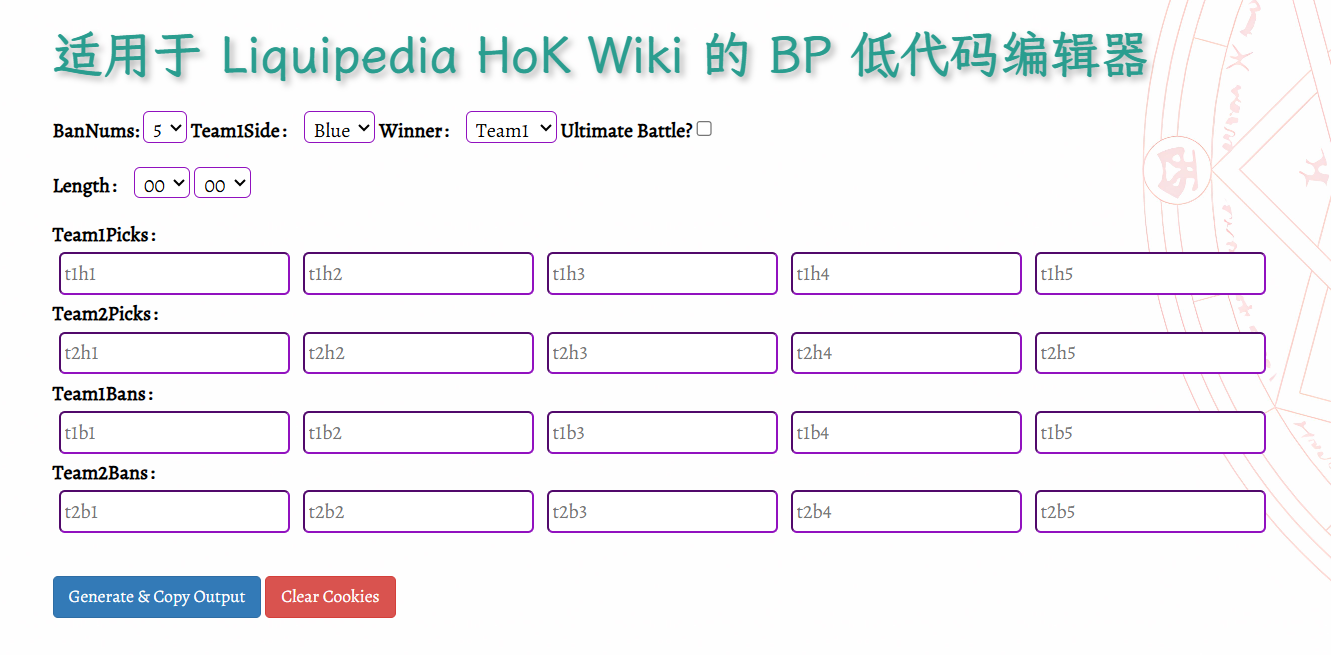
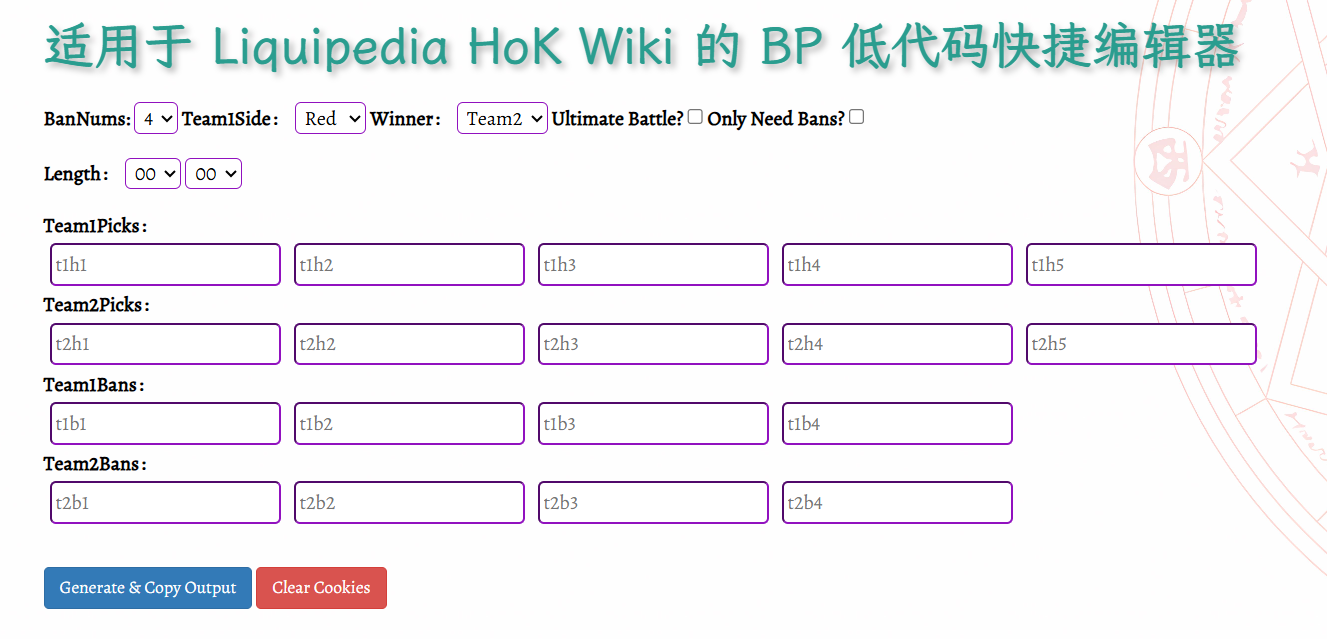
v1.1

Changed region(s): [[0.0309, 0.0, 1.0, 0.892], [0.0309, 0.1487, 0.6488, 0.3271], [0.0309, 0.8623, 0.309, 0.9515]]

diff --git a/assets/js/index.js b/assets/js/index.js
@@ -1,1 +1,7 @@
-import{dataArray,groups}from './data.js';$(document).ready(function(){$('#generateButton').click(function(){generateOutput()});$('#copyButton').click(function(){copyToClipboard()});if(Cookies.get('banNums')){$('#ChooseBans').val(Cookies.get('banNums'))}if(Cookies.get('team1side')){$('#team1side').val(Cookies.get('team1side'))}if(Cookies.get('winner')){$('#winner').val(Cookies.get('winner'))}for(let i = 0;i <= 99;i++){$('#minutes').append($('<option>',{value: i.toString().padStart(2,'0'),text: i.toString().padStart(2,'0')}))}for(let i = 0;i < 60;i++){$('#seconds').append($('<option>',{value: i.toString().padStart(2,'0'),text: i.toString().padStart(2,'0')}))}$('#inputs-container').empty();let counter = 1;groups.forEach(group =>{const BPDiv = $('<div>').attr('id',`BPDiv${counter++}`).addClass('BPDiv');const groupLabel = $('<b>').text(group.label).attr('id',group.id).addClass('LineB');BPDiv.append(groupLabel);for(let i = 0;i < 5;i++){const input = $('<input>').attr('type','text').attr('placeholder',`${group.prefix}${i + 1}`).attr('id',`${group.prefix}${i + 1}`).addClass('txtBorder txtLine').on('input',handleInput);BPDiv.append(input)}$('#inputs-container').append(BPDiv)});checkBanNum();$('#ChooseBans').change(function(){checkBanNum()});$('#isUltimateBattle').change(function(){checkIsUltimateBattle()});$('#ChooseBans').change(function(){Cookies.set('banNums',$(this).val(),{expires: 7})});$('#team1side').change(function(){Cookies.set('team1side',$(this).val(),{expires: 7})});$('#winner').change(function(){Cookies.set('winner',$(this).val(),{expires: 7})});let currentInput = null;let currentIndex = -1;let suggestionsData = [];function handleInput(event){const input = $(event.target);currentInput = input[0];const value = input.val().toLowerCase();const suggestionsContainer = getOrCreateSuggestionsContainer(input);suggestionsContainer.empty();currentIndex = -1;if(value){const filteredData = dataArray.filter(item => item.text.toLowerCase().includes(value)|| item.alias.toLowerCase().includes(value));const uniqueItems ={};filteredData.forEach(item =>{if(!uniqueItems[item.text]){uniqueItems[item.text] = item}});suggestionsData = Object.values(uniqueItems);suggestionsData.forEach((item,index)=>{const suggestionItem = $('<div>').addClass('suggestion-item').text(item.text).on('click',()=> selectSuggestion(item,input,suggestionsContainer)).on('mouseover',()=> highlightSuggestion(index)).on('mouseout',()=> removeHighlightSuggestion(index));suggestionsContainer.append(suggestionItem)});updateSuggestionsPosition(input,suggestionsContainer)}}function selectSuggestion(item,input,suggestionsContainer){input.val(item.text);input.data('value',item.value);suggestionsContainer.empty()}function getOrCreateSuggestionsContainer(input){let suggestionsContainer = input.next('.autocomplete-suggestions');if(suggestionsContainer.length === 0){suggestionsContainer = $('<div>').addClass('autocomplete-suggestions');input.after(suggestionsContainer)}return suggestionsContainer}function updateSuggestionsPosition(input,suggestionsContainer){const rect = input[0].getBoundingClientRect();suggestionsContainer.css({left: `${rect.left}px`,top: `${rect.bottom}px`,width: `${rect.width}px`})}function getSelectedValue(input){return input.data('value')}$(document).on('keydown',function(event){if(currentInput && $(currentInput).next('.autocomplete-suggestions').is(':visible')){const suggestionsContainer = $(currentInput).next('.autocomplete-suggestions');const suggestionItems = suggestionsContainer.find('.suggestion-item');if(event.key === 'ArrowDown'){currentIndex =(currentIndex + 1)% suggestionsData.length;highlightSuggestion(currentIndex);scrollIfNeeded(suggestionsContainer)}else if(event.key === 'ArrowUp'){currentIndex =(currentIndex - 1 + suggestionsData.length)% suggestionsData.length;highlightSuggestion(currentIndex);scrollIfNeeded(suggestionsContainer)}else if(event.key === 'Enter'){if(currentIndex !== -1){const selectedItem = suggestionsData[currentIndex];selectSuggestion(selectedItem,$(currentInput),suggestionsContainer)}}}});function highlightSuggestion(index){const suggestionsContainer = $(currentInput).next('.autocomplete-suggestions');const suggestionItems = suggestionsContainer.find('.suggestion-item');suggestionItems.removeClass('highlighted');suggestionItems.eq(index).addClass('highlighted')}function removeHighlightSuggestion(index){const suggestionsContainer = $(currentInput).next('.autocomplete-suggestions');const suggestionItems = suggestionsContainer.find('.suggestion-item');suggestionItems.eq(index).removeClass('highlighted')}function scrollIfNeeded(suggestionsContainer){const suggestionItems = suggestionsContainer.find('.suggestion-item');const itemHeight = suggestionItems.first().outerHeight();const visibleItems = Math.floor(suggestionsContainer.height()/ itemHeight);const topItem = suggestionItems.eq(currentIndex);const bottomItem = suggestionItems.eq(currentIndex + visibleItems - 1);if(topItem.position().top < 0){suggestionsContainer.scrollTop(suggestionsContainer.scrollTop()+ topItem.position().top)}else if(bottomItem.position().top > suggestionsContainer.height()){suggestionsContainer.scrollTop(suggestionsContainer.scrollTop()+ bottomItem.position().top - suggestionsContainer.height())}}function generateOutput(){const output = [];const team1side = $('#team1side').val();const team2side = team1side === 'blue' ? 'red' : 'blue';const minutes = $('#minutes').val();const seconds = $('#seconds').val();const winner = $('#winner').val();const t1h = Array.from({length: 5},(_,i)=> getValueById(`t1h${i + 1}`));const t2h = Array.from({length: 5},(_,i)=> getValueById(`t2h${i + 1}`));const t1b = Array.from({length: 5},(_,i)=> getValueById(`t1b${i + 1}`));const t2b = Array.from({length: 5},(_,i)=> getValueById(`t2b${i + 1}`));output.push(`        |team1side=${team1side}|team2side=${team2side}|length=${minutes}:${seconds}|winner=${winner}`);output.push(`        <!-- Hero picks -->`);output.push(`        |t1h1=${t1h[0]}|t1h2=${t1h[1]}|t1h3=${t1h[2]}|t1h4=${t1h[3]}|t1h5=${t1h[4]}`);output.push(`        |t2h1=${t2h[0]}|t2h2=${t2h[1]}|t2h3=${t2h[2]}|t2h4=${t2h[3]}|t2h5=${t2h[4]}`);const choose = Number($("#ChooseBans").val());if(!checkIsUltimateBattle()){output.push(`        <!-- Hero bans -->`);switch(choose){case 4: output.push(`        |t1b1=${t1b[0]}|t1b2=${t1b[1]}|t1b3=${t1b[2]}|t1b4=${t1b[3]}`);output.push(`        |t2b1=${t2b[0]}|t2b2=${t2b[1]}|t2b3=${t2b[2]}|t2b4=${t2b[3]}`);break;case 5: output.push(`        |t1b1=${t1b[0]}|t1b2=${t1b[1]}|t1b3=${t1b[2]}|t1b4=${t1b[3]}|t1b5=${t1b[4]}`);output.push(`        |t2b1=${t2b[0]}|t2b2=${t2b[1]}|t2b3=${t2b[2]}|t2b4=${t2b[3]}|t2b5=${t2b[4]}`);break;default: break}}$('#output').text(output.join('\n'));copyToClipboard()}function getValueById(inputId){const inputText = $(`#${inputId}`).val().toLowerCase();const item = dataArray.find(item => item.text.toLowerCase().includes(inputText));return item ? item.value : ''}function copyToClipboard(){const outputText = $('#output').text();const textArea = $('<textarea>').val(outputText).appendTo('body');textArea.select();document.execCommand('copy');textArea.remove()}$('input').click(function(){$(this).select()});function checkBanNum(){const banNum = $('#ChooseBans').val();if(banNum == '4'){$('#t1b5').hide();$('#t2b5').hide()}else{$('#t1b5').show();$('#t2b5').show()}}function checkIsUltimateBattle(){const isChecked = $("#isUltimateBattle").prop('checked');if(isChecked){$('#BPDiv3').hide();$('#BPDiv4').hide()}else{$('#BPDiv3').show();$('#BPDiv4').show()}return isChecked}$('#rememberMe').change(function(){$('#clearCookies').click(function(){Cookies.remove('banNums');Cookies.remove('team1side');Cookies.remove('winner')})})});
+import{dataArray}from './data.js';
+const groups = [{label: 'Team1Picks：',prefix: 't1h',id: "Label1"},{label: 'Team2Picks：',prefix: 't2h',id: "Label2"},{label: 'Team1Bans：',prefix: 't1b',id: "Label3"},{label: 'Team2Bans：',prefix: 't2b',id: "Label4"}];
+$(document).ready(function(){$('#generateButton').click(function(){generateOutput()});$('#copyButton').click(function(){copyToClipboard()});if(Cookies.get('banNums')){$('#ChooseBans').val(Cookies.get('banNums'))}if(Cookies.get('team1side')){$('#team1side').val(Cookies.get('team1side'))}if(Cookies.get('winner')){$('#winner').val(Cookies.get('winner'))}
+    for(let i = 0;i <= 99;i++){$('#minutes').append($('<option>',{value: i.toString().padStart(2,'0'),text: i.toString().padStart(2,'0')}))}
+	for(let i = 0;i < 60;i++){$('#seconds').append($('<option>',{value: i.toString().padStart(2,'0'),text: i.toString().padStart(2,'0')}))}
+	$('#inputs-container').empty();let counter = 1;groups.forEach(group =>{const BPDiv = $('<div>').attr('id',`BPDiv${counter++}`).addClass('BPDiv');const groupLabel = $('<b>').text(group.label).attr('id',group.id).addClass('LineB');BPDiv.append(groupLabel);for(let i = 0;i < 5;i++){const input = $('<input>').attr('type','text').attr('placeholder',`${group.prefix}${i + 1}`).attr('id',`${group.prefix}${i + 1}`).addClass('txtBorder txtLine').on('input',handleInput);BPDiv.append(input)}$('#inputs-container').append(BPDiv)});checkBanNum();$('#ChooseBans').change(function(){checkBanNum()});$('#isUltimateBattle').change(function(){checkIsUltimateBattle()});$('#isOnlyBans').change(function(){checkIsOnlyBans()});$('#ChooseBans').change(function(){Cookies.set('banNums',$(this).val(),{expires: 7})});$('#team1side').change(function(){Cookies.set('team1side',$(this).val(),{expires: 7})});$('#winner').change(function(){Cookies.set('winner',$(this).val(),{expires: 7})});let currentInput = null;let currentIndex = -1;let suggestionsData = [];function handleInput(event){const input = $(event.target);currentInput = input[0];const value = input.val().toLowerCase();const suggestionsContainer = getOrCreateSuggestionsContainer(input);suggestionsContainer.empty();currentIndex = -1;if(value){const filteredData = dataArray.filter(item => item.text.toLowerCase().includes(value)|| item.alias.toLowerCase().includes(value));const uniqueItems ={};filteredData.forEach(item =>{if(!uniqueItems[item.text]){uniqueItems[item.text] = item}});suggestionsData = Object.values(uniqueItems);suggestionsData.forEach((item,index)=>{const suggestionItem = $('<div>').addClass('suggestion-item').text(item.text).on('click',()=> selectSuggestion(item,input,suggestionsContainer)).on('mouseover',()=> highlightSuggestion(index)).on('mouseout',()=> removeHighlightSuggestion(index));suggestionsContainer.append(suggestionItem)});updateSuggestionsPosition(input,suggestionsContainer)}}function selectSuggestion(item,input,suggestionsContainer){input.val(item.text);input.data('value',item.value);suggestionsContainer.empty()}function getOrCreateSuggestionsContainer(input){let suggestionsContainer = input.next('.autocomplete-suggestions');if(suggestionsContainer.length === 0){suggestionsContainer = $('<div>').addClass('autocomplete-suggestions');input.after(suggestionsContainer)}return suggestionsContainer}function updateSuggestionsPosition(input,suggestionsContainer){const rect = input[0].getBoundingClientRect();suggestionsContainer.css({left: `${rect.left}px`,top: `${rect.bottom}px`,width: `${rect.width}px`})}function getSelectedValue(input){return input.data('value')}$(document).on('keydown',function(event){if(currentInput && $(currentInput).next('.autocomplete-suggestions').is(':visible')){const suggestionsContainer = $(currentInput).next('.autocomplete-suggestions');const suggestionItems = suggestionsContainer.find('.suggestion-item');if(event.key === 'ArrowDown'){currentIndex =(currentIndex + 1)% suggestionsData.length;highlightSuggestion(currentIndex);scrollIfNeeded(suggestionsContainer)}else if(event.key === 'ArrowUp'){currentIndex =(currentIndex - 1 + suggestionsData.length)% suggestionsData.length;highlightSuggestion(currentIndex);scrollIfNeeded(suggestionsContainer)}else if(event.key === 'Enter'){if(currentIndex !== -1){const selectedItem = suggestionsData[currentIndex];selectSuggestion(selectedItem,$(currentInput),suggestionsContainer)}}}});function highlightSuggestion(index){const suggestionsContainer = $(currentInput).next('.autocomplete-suggestions');const suggestionItems = suggestionsContainer.find('.suggestion-item');suggestionItems.removeClass('highlighted');suggestionItems.eq(index).addClass('highlighted')}function removeHighlightSuggestion(index){const suggestionsContainer = $(currentInput).next('.autocomplete-suggestions');const suggestionItems = suggestionsContainer.find('.suggestion-item');suggestionItems.eq(index).removeClass('highlighted')}function scrollIfNeeded(suggestionsContainer){const suggestionItems = suggestionsContainer.find('.suggestion-item');const itemHeight = suggestionItems.first().outerHeight();const visibleItems = Math.floor(suggestionsContainer.height()/ itemHeight);const topItem = suggestionItems.eq(currentIndex);const bottomItem = suggestionItems.eq(currentIndex + visibleItems - 1);if(topItem.position().top < 0){suggestionsContainer.scrollTop(suggestionsContainer.scrollTop()+ topItem.position().top)}else if(bottomItem.position().top > suggestionsContainer.height()){suggestionsContainer.scrollTop(suggestionsContainer.scrollTop()+ bottomItem.position().top - suggestionsContainer.height())}}function generateOutput() {const output = [];const team1side = $('#team1side').val();const team2side = team1side === 'blue' ? 'red' : 'blue';const minutes = $('#minutes').val();const seconds = $('#seconds').val();const winner = $('#winner').val();const t1h = Array.from({length: 5},(_,i)=> getValueById(`t1h${i + 1}`));const t2h = Array.from({length: 5},(_,i)=> getValueById(`t2h${i + 1}`));const t1b = Array.from({length: 5},(_,i)=> getValueById(`t1b${i + 1}`));const t2b = Array.from({length: 5},(_,i)=> getValueById(`t2b${i + 1}`));if (!checkIsOnlyBans()) {output.push(`        |team1side=${team1side}|team2side=${team2side}|length=${minutes}:${seconds}|winner=${winner}`);output.push(`        <!-- Hero picks -->`);output.push(`        |t1h1=${t1h[0]}|t1h2=${t1h[1]}|t1h3=${t1h[2]}|t1h4=${t1h[3]}|t1h5=${t1h[4]}`);output.push(`        |t2h1=${t2h[0]}|t2h2=${t2h[1]}|t2h3=${t2h[2]}|t2h4=${t2h[3]}|t2h5=${t2h[4]}`);}if (!checkIsUltimateBattle()) {output.push(`        <!-- Hero bans -->`);switch (Number($("#ChooseBans").val())) {case 4:output.push(`        |t1b1=${t1b[0]}|t1b2=${t1b[1]}|t1b3=${t1b[2]}|t1b4=${t1b[3]}`);output.push(`        |t2b1=${t2b[0]}|t2b2=${t2b[1]}|t2b3=${t2b[2]}|t2b4=${t2b[3]}`);break;case 5:output.push(`        |t1b1=${t1b[0]}|t1b2=${t1b[1]}|t1b3=${t1b[2]}|t1b4=${t1b[3]}|t1b5=${t1b[4]}`);output.push(`        |t2b1=${t2b[0]}|t2b2=${t2b[1]}|t2b3=${t2b[2]}|t2b4=${t2b[3]}|t2b5=${t2b[4]}`);break;default: break}}$('#output').text(output.join('\n'));copyToClipboard()}function getValueById(inputId){const inputText = $(`#${inputId}`).val().toLowerCase();const item = dataArray.find(item => item.text.toLowerCase().includes(inputText));return item ? item.value : ''}function copyToClipboard(){const outputText = $('#output').text();const textArea = $('<textarea>').val(outputText).appendTo('body');textArea.select();document.execCommand('copy');textArea.remove()}$('input').click(function(){$(this).select()});function checkBanNum(){const banNum = $('#ChooseBans').val();if(banNum == '4'){$('#t1b5').hide();$('#t2b5').hide()}else{$('#t1b5').show();$('#t2b5').show()}}function checkIsUltimateBattle(){const isChecked = $("#isUltimateBattle").prop('checked');if(isChecked){$('#BPDiv3').hide();$('#BPDiv4').hide()}else{$('#BPDiv3').show();$('#BPDiv4').show()}return isChecked}function checkIsOnlyBans(){const isChecked = $("#isOnlyBans").prop('checked');if(isChecked){$('#BPDiv1').hide();$('#BPDiv2').hide()}else{$('#BPDiv1').show();$('#BPDiv2').show()}return isChecked}$('#rememberMe').change(function(){$('#clearCookies').click(function(){Cookies.remove('banNums');Cookies.remove('team1side');Cookies.remove('winner')})})
+});

diff --git a/assets/css/index.css b/assets/css/index.css
@@ -1,3 +1,4 @@
+<<<<<<< HEAD
 .autocomplete-suggestions {
     border: 1px solid #ccc;
     max-height: 150px;
@@ -49,3 +50,6 @@
     margin-top: 50px;
     margin-left: 100px;
 }
+=======
+@media (orientation:landscape){#content{margin:30px 15px 25px 25px}}@media (orientation:portrait){#content{margin:20px 5px 25px 25px}}.autocomplete-suggestions{border:1px solid #ccc;max-height:150px;overflow-y:auto;position:absolute;background:white;z-index:999;width:auto;box-sizing:border-box}.suggestion-item{padding:8px;cursor:pointer}.suggestion-item:hover{background-color:#f0f0f0}.highlighted{background-color:#ddd}.autocomplete-suggestions{max-height:200px;overflow-y:auto;border:1px solid #ccc;background-color:white}.txtBorder{padding:3px;border-color:rgb(145,17,191);border-radius:.3rem;line-height:25px;font-size:medium}.txtLine{margin:5px}.LineB{display:block}
+>>>>>>> 3c3141e (v1.1)

diff --git a/assets/js/data.js b/assets/js/data.js
@@ -1,5 +1,5 @@
 export const dataArray = [
-    // Empty
+    // Default null value
     { "value": "", "text": "Null","alias":""},
     // Honor of Kings CN
     { "value": "agudo", "text": "Agudo (阿古朵)","alias":"aguduo"},
@@ -384,10 +384,3 @@ export const dataArray = [
     //Arena of Valor
 
 ]; 
-
-export const groups = [
-    { label: 'Team1Picks：', prefix: 't1h' ,id:"Label1"}, 
-    { label: 'Team2Picks：', prefix: 't2h',id:"Label2" }, 
-    { label: 'Team1Bans：', prefix: 't1b',id:"Label3" }, 
-    { label: 'Team2Bans：', prefix: 't2b',id:"Label4" }
-];

diff --git a/index.html b/index.html
@@ -34,6 +34,8 @@
 				</select>
 				<label for="isUltimateBattle"><b>Ultimate Battle? </b></label>
 				<input type="checkbox" id="isUltimateBattle" class="txtBorder">
+				<label for="isOnlyBans"><b>Only Need Bans? </b></label>
+				<input type="checkbox" id="isOnlyBans" class="txtBorder">
 				<br><br>
 				<label for="length"><b>Length：</b></label>
 				<label for="minutes"></label>

diff --git a/README-zh-CN.md b/README-zh-CN.md
@@ -1,6 +1,6 @@
 # 适用于Liquipedia HoK Wiki的BP低代码编辑器
 
-本Demo实现了Liquipedia的*Ban&Picks*格式化输出，降低了由于输出错误导致的增加检查成本，并提升了一定的编写效率。
+本Demo实现了***[Liquipedia](https://liquipedia.net/honorofkings/)***的*Ban&Picks*格式化输出，降低了由于输出错误导致的增加检查成本，并提升了一定的编写效率。
 
 #### 页面效果
 
@@ -8,9 +8,9 @@
 
 #### 输出效果
 
-##### 5Ban5Pick
+##### 4禁用 & 5选择
 
-```yaml
+``` yaml
         |team1side=blue|team2side=red|length=00:00|winner=1
         <!-- Hero picks -->
         |t1h1=|t1h2=|t1h3=|t1h4=|t1h5=
@@ -20,9 +20,9 @@
         |t2b1=|t2b2=|t2b3=|t2b4=|t2b5=
 ```
 
-##### 4Ban5Pick
+##### 5禁用 & 5选择
 
-```yaml
+``` yaml
         |team1side=blue|team2side=red|length=00:00|winner=1
         <!-- Hero picks -->
         |t1h1=|t1h2=|t1h3=|t1h4=|t1h5=
@@ -34,11 +34,27 @@
 
 ##### 巅峰对决
 
-```yaml
+``` yaml
         |team1side=blue|team2side=red|length=00:00|winner=1
         <!-- Hero picks -->
         |t1h1=|t1h2=|t1h3=|t1h4=|t1h5=
         |t2h1=|t2h2=|t2h3=|t2h4=|t2h5=
+```
+
+##### 4禁用
+
+```yaml
+        <!-- Hero bans -->
+        |t1b1=|t1b2=|t1b3=|t1b4=
+        |t2b1=|t2b2=|t2b3=|t2b4=
+```
+
+##### 5禁用
+
+```yaml
+        <!-- Hero bans -->
+        |t1b1=|t1b2=|t1b3=|t1b4=|t1b5=
+        |t2b1=|t2b2=|t2b3=|t2b4=|t2b5=
 ```
 
 #### 使用帮助
@@ -49,9 +65,9 @@ BP输入框支持提示词，本Demo支持了***Honor of Kings（包括国际服
 | ----- | ------------ |
 | vulue | 最终的输出值 |
 | text  | 提示词       |
-| alias | 别名         |
+| alias | 自定义的别名 |
 
-您同样可以替换其他游戏的对应关系，或许您可以直接询问大语言模型将目标输出为对应格式获取。
+您同样可以替换其他游戏的对应关系，或许您可以直接询问[大语言模型](https://ai.com/)将目标输出为对应格式获取。
 
 ```javascript
 export const dataArray = [
@@ -63,7 +79,7 @@ export const dataArray = [
 }
 ```
 
-如果您计划在本地运行，推荐使用VS Code的***Live Server***插件部署此Demo，带来的诸多不便敬请谅解。
+如果您计划在本地运行，推荐使用***VS Code***的***Live Server***插件部署此Demo，带来的诸多不便敬请谅解。
 
 #### 最后
 

diff --git a/README.md b/README.md
@@ -1,6 +1,6 @@
 # Low-Code Editor
 
-This Demo implements Liquipedia's *Ban&Picks* formatting output, which reduces the increased inspection cost caused by output errors and improves certain writing efficiency.
+This Demo implements [***Liquipedia***](https://liquipedia.net/honorofkings/)'s *Ban&Picks* formatting output, which reduces the increased inspection cost caused by output errors and improves certain writing efficiency.
 
 #### Page Effect
 
@@ -8,7 +8,7 @@ This Demo implements Liquipedia's *Ban&Picks* formatting output, which reduces t
 
 #### Output effect
 
-##### 5Ban5Pick
+##### 5Ban & 5Pick
 
 ``` yaml
         |team1side=blue|team2side=red|length=00:00|winner=1
@@ -20,9 +20,7 @@ This Demo implements Liquipedia's *Ban&Picks* formatting output, which reduces t
         |t2b1=|t2b2=|t2b3=|t2b4=|t2b5=
 ```
 
-
-
-##### 4Ban5Pick
+##### 4Ban & 5Pick
 
 ``` yaml
         |team1side=blue|team2side=red|length=00:00|winner=1
@@ -34,9 +32,7 @@ This Demo implements Liquipedia's *Ban&Picks* formatting output, which reduces t
         |t2b1=|t2b2=|t2b3=|t2b4=
 ```
 
-
-
-##### Peak duel
+##### Ultimate Battle
 
 ``` yaml
         |team1side=blue|team2side=red|length=00:00|winner=1
@@ -45,7 +41,21 @@ This Demo implements Liquipedia's *Ban&Picks* formatting output, which reduces t
         |t2h1=|t2h2=|t2h3=|t2h4=|t2h5=
 ```
 
+##### Only Need 4Bans
 
+```yaml
+        <!-- Hero bans -->
+        |t1b1=|t1b2=|t1b3=|t1b4=
+        |t2b1=|t2b2=|t2b3=|t2b4=
+```
+
+##### Only Need 5Bans
+
+```yaml
+        <!-- Hero bans -->
+        |t1b1=|t1b2=|t1b3=|t1b4=|t1b5=
+        |t2b1=|t2b2=|t2b3=|t2b4=|t2b5=
+```
 
 #### Using Help
 
